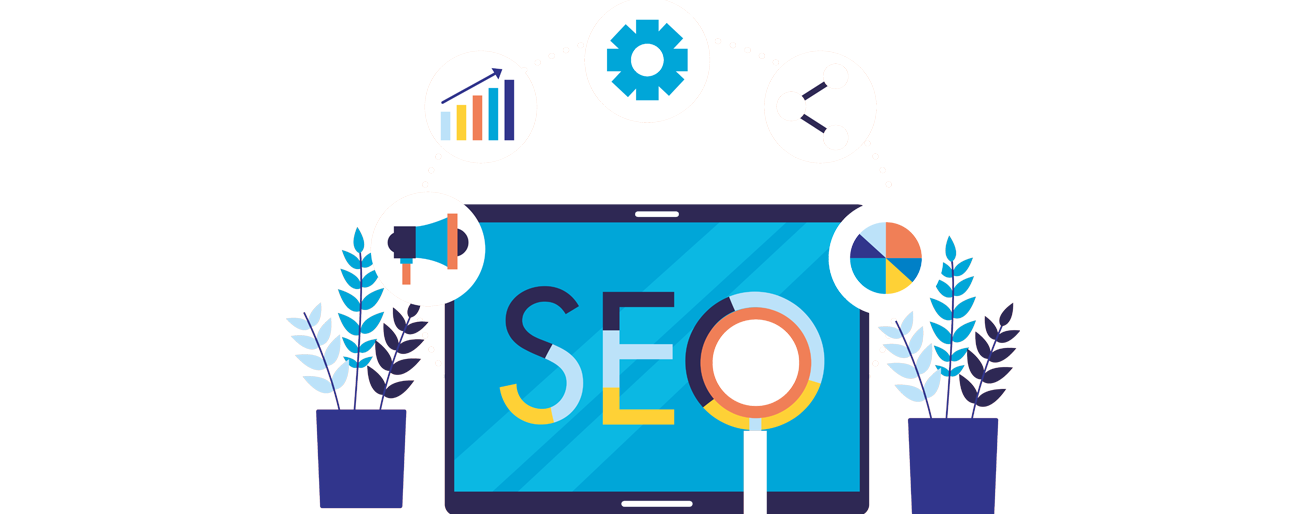
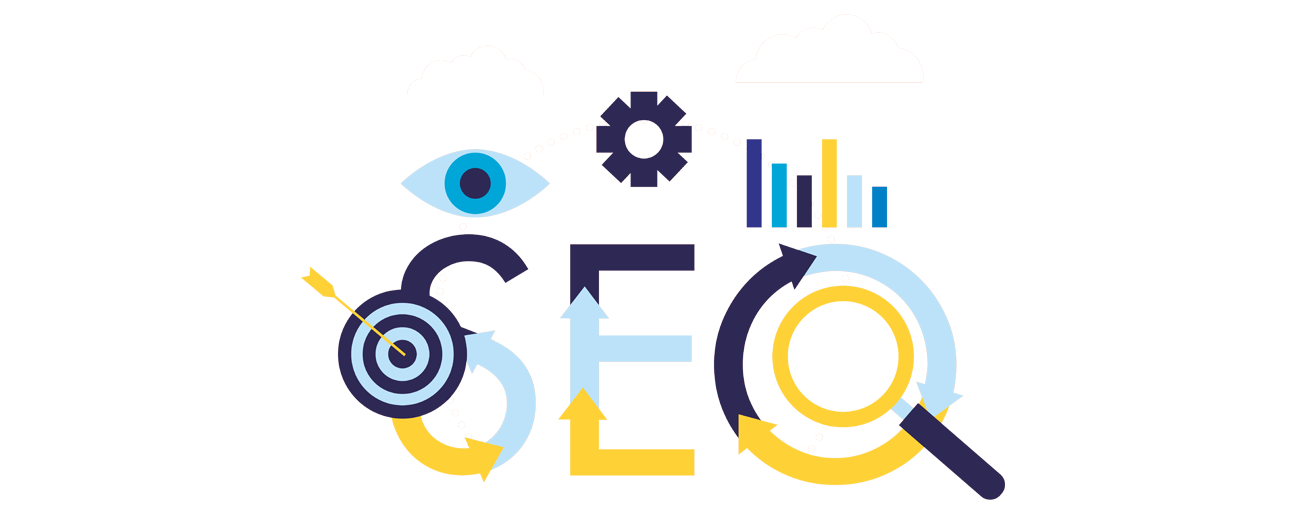
SEO cards done

Changed region(s): [[0.2144, 0.0311, 0.7963, 1.0], [0.6126, 0.1556, 0.6432, 0.1868]]

diff --git a/src/Components/Cards/SeoCard/Card.js b/src/Components/Cards/SeoCard/Card.js
@@ -1,14 +1,8 @@
 import React from 'react'
 import './Card.css'
 import seo from '../../../Assets/Images/New_card_img/seo.png'
-import Professional from '../../../Assets/Images/New_card_img//Professional.png'
-import Athlete from '../../../Assets/Images/New_card_img//Athlete.png'
-import Basic_Web from '../../../Assets/Images/New_card_img//Basic_Web.png'
-import Startup_web from '../../../Assets/Images/New_card_img//Startup_web.png'
-import Professional_Web from '../../../Assets/Images/New_card_img//Professional_Web.png'
-import Elite from '../../../Assets/Images/New_card_img//Elite.png'
-import Corporate from '../../../Assets/Images/New_card_img//Corporate.png'
-import Business from '../../../Assets/Images/New_card_img//Business.png'
+import seo1 from '../../../Assets/Images/New_card_img/seo1.png'
+import seo2 from '../../../Assets/Images/New_card_img/seo2.png'
 
 function Card() {
     return (
@@ -25,7 +19,6 @@ function Card() {
                 <li> <b>25 </b> Long Tail Keywords</li>
                 <li>Negative Keywords</li>
                 <li>Campaign Restructure</li>
-                <li> <b>3</b> Long Tail Keywords</li>
                 <li>Weekly & Monthly Reports</li>
                 <li>SEO Support</li>
                 </ul>
@@ -35,174 +28,46 @@ function Card() {
                 </div>
                     </div>
                     <div className="card">
-                <img src={Professional} alt="" className="card__img" /> 
+                <img src={seo1} alt="" className="card__img" /> 
                 <div className="card__content">
                     <div className="card__data">
-                         <h1 className="card__title">Professional Landing Page</h1>
-                         <span className="card__price">$600</span>
+                         <h1 className="card__title">SEO Basic Package</h1>
+                         <span className="card__price">$129.99</span>
                 <ul>
-                <li> <b>5 </b> Page Website</li>
-                <li>CMS / Admin Panel Support</li>
-                <li><b>8 </b> Stock Images</li>
-                <li>Made with WordPress</li>
-                <li>FREE Google Friendly Sitemap</li>
-                <li>Complete Deployment</li>
-                <li>Mobile Responsive will be Additional $200*</li>
+                <li> <b>5 </b> Short Tail Keywords</li>
+                <li> <b>5 </b> Long Tail Keywords</li>
+                <li>Negative Keywords</li>
+                <li>Campaign Restructure</li>
+                <li> <b>1</b> Campaign</li>
+                <li>Monthly Reports</li>
                 </ul>
-            <a href="https://www.stmathlete.com/home" target="_blank" rel="noreferrer"  className="card__button_order">ORDER</a>
+            <a href="https://square.link/u/pNuPyswG" target="_blank" rel="noreferrer"  className="card__button_order">ORDER</a>
             <a href="facetime:16578779300" target="_blank" rel="noreferrer"  className="card__button_call">CALL US</a>
              </div>
                 </div>
                     </div>
                     <div className="card">
-                <img src={Athlete} alt="" className="card__img" /> 
+                <img src={seo2} alt="" className="card__img" /> 
                 <div className="card__content">
                     <div className="card__data">
-                         <h1 className="card__title">Athlete Recruiting Page</h1>
-                         <span className="card__price">$2,000</span>
+                         <h1 className="card__title">SEO Consultation</h1>
+                         <span className="card__price">$149.99 / hr</span>
                 <ul>
-                <li><b>5 </b>Stock Photos</li>
-                <li><b>10+ </b>Page Website</li>
-                <li><b>3 </b>Banner Design</li>
-                <li>Made with WordPress</li>
-                <li>FREE Google Friendly Sitemap</li>
-                <li>Complete Deployment</li>
-                <li>Mobile Responsive will be Additional $200*</li>
+                <span 
+                style={{
+                color: 'rgb(168, 148, 32)',
+              }}>
+                  We will guide you through and come up with a campaign structure 
+                plan that fits your business goals. Below are the details for our monthly Plan. </span>
                 </ul>
-            <a href="https://www.stmathlete.com/home" target="_blank" rel="noreferrer"  className="card__button_order">ORDER</a>
+                <br></br>
+            <a href="https://square.link/u/rOktRiS0" target="_blank" rel="noreferrer"  className="card__button_order">ORDER</a>
             <a href="facetime:16578779300" target="_blank" rel="noreferrer"  className="card__button_call">CALL US</a>
              </div>
                 </div>
                     </div>
                         </div>
-                        <div className="cards__container">
-            <div className="card">
-                <img src={Basic_Web} alt="" className="card__img" /> 
-
-                <div className="card__content">
-                    <div className="card__data">
-                         <h1 className="card__title">Basic Web Pack</h1>
-                         <span className="card__price">$350</span>
-                <ul>
-                <li><b>2 </b> Stock Images</li>
-                <li><b>1 </b>Page Website</li>
-                <li><b>1 </b> Made with WIX</li>
-                <li><b>1 </b> Contact/Query Form</li>
-                <li>48 to 72 hours TAT</li>
-                <li>Complete Deployment</li>
-                <li><del><b>Mobile Responsive</b></del> </li>
-                </ul>
-            <a href="https://www.stmathlete.com/home" target="_blank" rel="noreferrer"  className="card__button_order">ORDER</a>
-            <a href="facetime:16578779300" target="_blank" rel="noreferrer"  className="card__button_call">CALL US</a>
-             </div>
-                </div>
-                    </div>
-                    <div className="card">
-                <img src={Startup_web} alt="" className="card__img" /> 
-
-                <div className="card__content">
-                    <div className="card__data">
-                         <h1 className="card__title">Startup Web Pack</h1>
-                         <span className="card__price">$1,350</span>
-                <ul>
-                <li> <b>5 </b> Stock Photos</li>
-                <li><b>3 </b> Page Website</li>
-                <li><b>3 </b> Banner Design</li>
-                <li>Made with WIX</li>
-                <li>FREE Google Friendly Sitemap</li>
-                <li>Complete Deployment</li>
-                <li>Mobile Responsive will be Additional $200*</li>
-                </ul>
-            <a href="https://www.stmathlete.com/home" target="_blank" rel="noreferrer"  className="card__button_order">ORDER</a>
-            <a href="facetime:16578779300" target="_blank" rel="noreferrer"  className="card__button_call">CALL US</a>
-             </div>
-                </div>
-                    </div>
-                    <div className="card">
-                <img src={Professional_Web} alt="" className="card__img" /> 
-
-                <div className="card__content">
-                    <div className="card__data">
-                         <h1 className="card__title">Professional Web Pack</h1>
-                         <span className="card__price">$2,150</span>
-                <ul>
-                <li><b>5 </b>Page Website</li>
-                <li>CMS / Admin Panel Support</li>
-                <li><b>8 </b>Stock Images</li>
-                <li>Made with WIX</li>
-                <li>FREE Google Friendly Sitemap</li>
-                <li>Complete Deployment</li>
-                <li>Mobile Responsive will be Additional $200*</li>
-                </ul>
-            <a href="https://www.stmathlete.com/home" target="_blank" rel="noreferrer"  className="card__button_order">ORDER</a>
-            <a href="facetime:16578779300" target="_blank" rel="noreferrer"  className="card__button_call">CALL US</a>
-             </div>
-                </div>
-                    </div>
-                        </div>
-                        <div className="cards__container">
-            <div className="card">
-                <img src={Elite} alt="" className="card__img" /> 
-
-                <div className="card__content">
-                    <div className="card__data">
-                         <h1 className="card__title">Elite Web Pack</h1>
-                         <span className="card__price">$450</span>
-                <ul>
-                <li><b>1 </b> Page Website</li>
-                <li><b>2 </b>Stock Images</li>
-                <li><b>1 </b> Made with WordPress</li>
-                <li><b>1 </b> Contact/Query Form</li>
-                <li>48 to 72 hours TAT</li>
-                <li>Complete Deployment</li>
-                <li><del><b>Mobile Responsive</b></del> </li>
-                </ul>
-            <a href="https://www.stmathlete.com/home" target="_blank" rel="noreferrer"  className="card__button_order">ORDER</a>
-            <a href="facetime:16578779300" target="_blank" rel="noreferrer"  className="card__button_call">CALL US</a>
-             </div>
-                </div>
-                    </div>
-                    <div className="card">
-                <img src={Corporate} alt="" className="card__img" /> 
-                <div className="card__content">
-                    <div className="card__data">
-                         <h1 className="card__title">Corporate Web pack</h1>
-                         <span className="card__price">$1,550</span>
-                <ul>
-                <li> <b>10 </b> Page Website</li>
-                <li>CMS / Admin Panel Support</li>
-                <li><b>8 </b> Stock Images</li>
-                <li>Made with WordPress</li>
-                <li>FREE Google Friendly Sitemap</li>
-                <li>Complete Deployment</li>
-                <li>Mobile Responsive will be Additional $200*</li>
-                </ul>
-            <a href="https://www.stmathlete.com/home" target="_blank" rel="noreferrer"  className="card__button_order">ORDER</a>
-            <a href="facetime:16578779300" target="_blank" rel="noreferrer"  className="card__button_call">CALL US</a>
-             </div>
-                </div>
-                    </div>
-                    <div className="card">
-                <img src={Business} alt="" className="card__img" /> 
-                <div className="card__content">
-                    <div className="card__data">
-                         <h1 className="card__title">Business Web Pack</h1>
-                         <span className="card__price">$2,450</span>
-                <ul>
-                <li><b>5 </b>Stock Photos</li>
-                <li><b>10+ </b>Page Website</li>
-                <li><b>3 </b>Banner Design</li>
-                <li>Made with WordPress</li>
-                <li>FREE Google Friendly Sitemap</li>
-                <li>Complete Deployment</li>
-                <li>Mobile Responsive will be Additional $200*</li>
-                </ul>
-            <a href="https://www.stmathlete.com/home" target="_blank" rel="noreferrer"  className="card__button_order">ORDER</a>
-            <a href="facetime:16578779300" target="_blank" rel="noreferrer"  className="card__button_call">CALL US</a>
-             </div>
-                </div>
-                    </div>
-                        </div>
+                      
                         </>
 
                         
